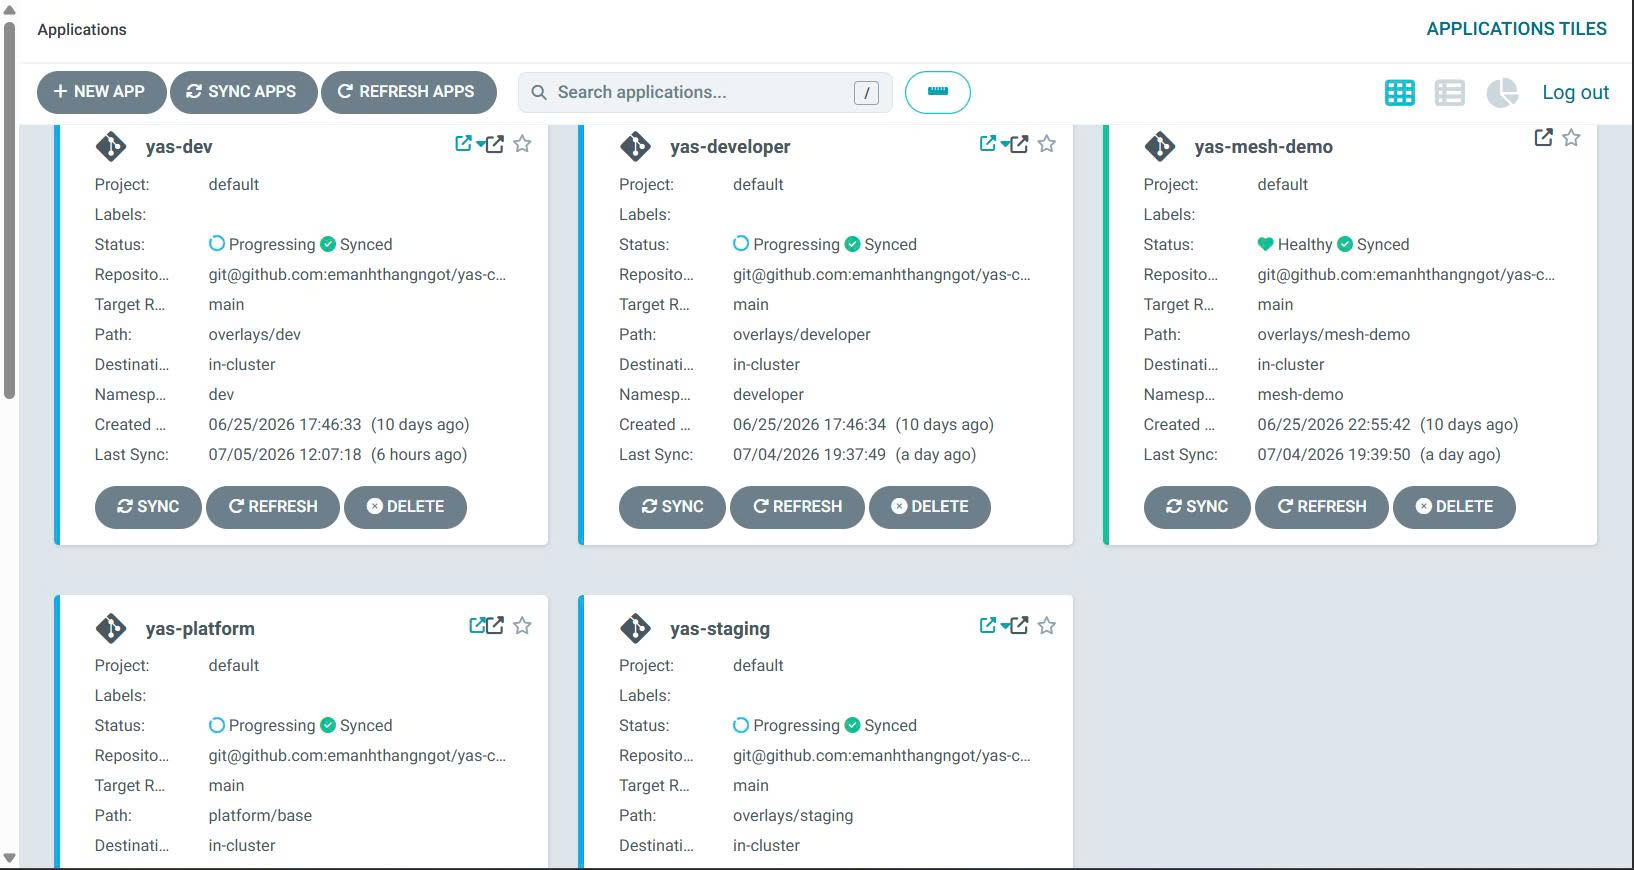
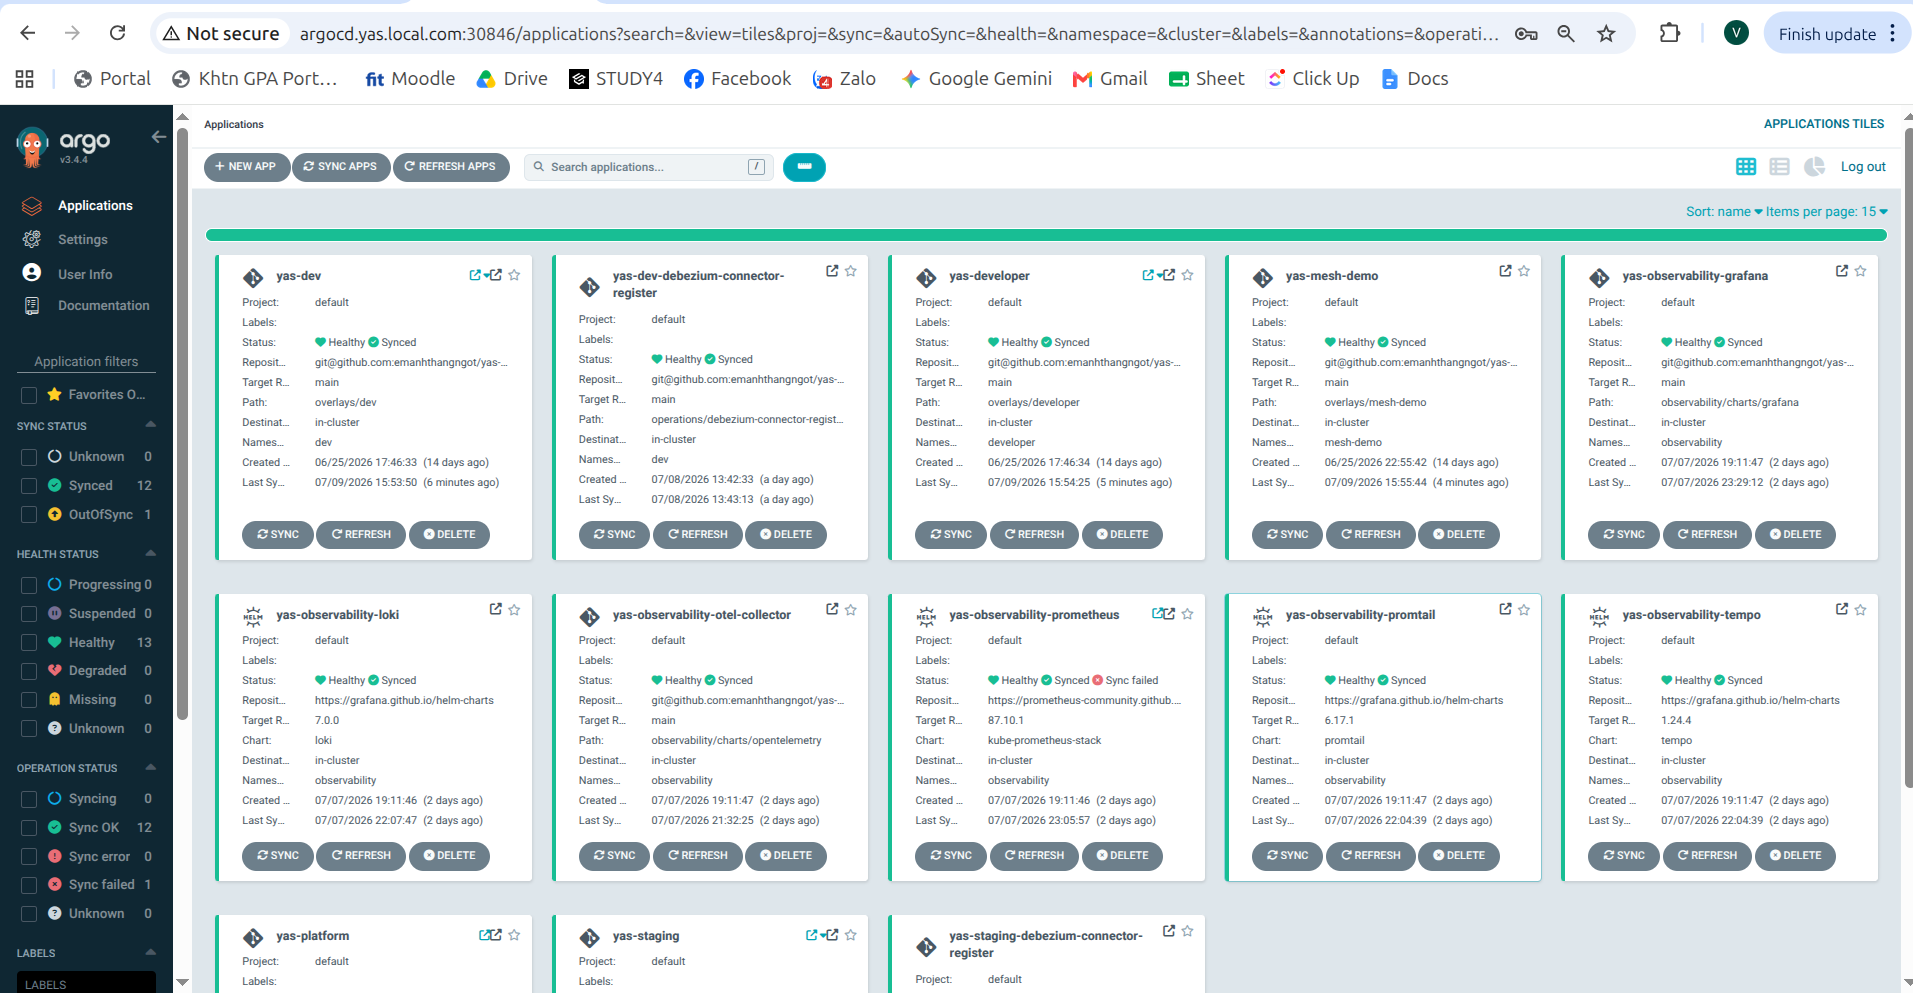
docs(report): update lab2 evidence and cover

diff --git a/latex-report/content/title.tex b/latex-report/content/title.tex
@@ -1,29 +1,35 @@
+% ==================== TRANG BÌA ====================
 \begin{titlepage}
-\newcommand{\HRule}{\rule{\linewidth}{0.5mm}}
-\centering
+    \newgeometry{margin=1.5cm}
+    \begin{tikzpicture}[remember picture,overlay,inner sep=0,outer sep=0]
+         \draw[blue!70!black,line width=4pt] ([xshift=-1.5cm,yshift=-2cm]current page.north east) coordinate (A)--([xshift=1.5cm,yshift=-2cm]current page.north west) coordinate(B)--([xshift=1.5cm,yshift=2cm]current page.south west) coordinate (C)--([xshift=-1.5cm,yshift=2cm]current page.south east) coordinate(D)--cycle;
+         \draw ([yshift=0.5cm,xshift=-0.5cm]A)-- ([yshift=0.5cm,xshift=0.5cm]B)--([yshift=-0.5cm,xshift=0.5cm]B) --([yshift=-0.5cm,xshift=-0.5cm]B)--([yshift=0.5cm,xshift=-0.5cm]C)--([yshift=0.5cm,xshift=0.5cm]C)--([yshift=-0.5cm,xshift=0.5cm]C)-- ([yshift=-0.5cm,xshift=-0.5cm]D)--([yshift=0.5cm,xshift=-0.5cm]D)--([yshift=0.5cm,xshift=0.5cm]D)--([yshift=-0.5cm,xshift=0.5cm]A)--([yshift=-0.5cm,xshift=-0.5cm]A)--([yshift=0.5cm,xshift=-0.5cm]A);
+         \draw ([yshift=-0.3cm,xshift=0.3cm]A)-- ([yshift=-0.3cm,xshift=-0.3cm]B)--([yshift=0.3cm,xshift=-0.3cm]B) --([yshift=0.3cm,xshift=0.3cm]B)--([yshift=-0.3cm,xshift=0.3cm]C)--([yshift=-0.3cm,xshift=-0.3cm]C)--([yshift=0.3cm,xshift=-0.3cm]C)-- ([yshift=0.3cm,xshift=0.3cm]D)--([yshift=-0.3cm,xshift=0.3cm]D)--([yshift=-0.3cm,xshift=-0.3cm]D)--([yshift=0.3cm,xshift=-0.3cm]A)--([yshift=0.3cm,xshift=0.3cm]A)--([yshift=-0.3cm,xshift=0.3cm]A);
+    \end{tikzpicture}
 
-\textsc{\LARGE đại học quốc gia tphcm}\\[0.3cm]
-\textsc{\Large trường đại học khoa học tự nhiên}\\[0.3cm]
-\textsc{\large khoa công nghệ thông tin}\\[0.4cm]
+    \centering
+    \begin{spacing}{1.1}
+    \vspace*{1cm}
+    {\Large \textbf{TRƯỜNG ĐẠI HỌC KHOA HỌC TỰ NHIÊN - ĐHQG-HCM}}\\[0.3cm]
+    {\large \textbf{KHOA CÔNG NGHỆ THÔNG TIN}}\\[1.1cm]
 
-\includegraphics[scale=.18]{img/hcmus-logo.png}\\[0.4cm]
+    {\huge \textbf{BÁO CÁO}}\\[0.5cm]
+    \begin{minipage}{0.86\textwidth}
+        \centering
+        {\Large \textbf{\reporttitle}}\\[0.3cm]
+        {\large \textbf{Đề tài: \reportname}}
+    \end{minipage}\\[1.2cm]
 
-\HRule \\[0.3cm]
-{
-\huge{\bfseries{\reporttitle}}\\[0.3cm]
-\large{\bfseries{Đề tài: \reportname}}
-}\\[0.3cm]
-\HRule \\[0.4cm]
+    \includegraphics[width=4.5cm]{img/hcmus-logo.png}\\[1.5cm]
 
-\textbf{\large Môn học: \coursename}\\[0.5cm]
+    {\Large \textbf{MÔN: \MakeUppercase{\coursename}}}\\[0.5cm]
+    {\large \textbf{\today}}\\[1.4cm]
 
-\begin{minipage}[t]{0.8\textwidth}
-\centering \large
-\emph{Sinh viên thực hiện:}\\
-\studentname
-\end{minipage}\\[0.8cm]
-
-{\large \today}
-
-\vfill
+    \normalsize
+    \textbf{Sinh viên thực hiện:}\\[0.2cm]
+    \studentname\\[1.1cm]
+    \textbf{Niên học: 2025 - 2026}
+    \end{spacing}
+    \restoregeometry
 \end{titlepage}
+\newpage

diff --git a/latex-report/content/lab2-03-kien-truc.tex b/latex-report/content/lab2-03-kien-truc.tex
@@ -18,6 +18,22 @@ Developer push branch/tag -> Jenkins app repo pipeline
 
 \subsection{Hạ Tầng Triển Khai}
 
+Hạ tầng thực tế của nhóm tách rõ CI và CD/runtime. Jenkins Controller chạy trên
+AWS EC2 tại địa chỉ \texttt{3.27.92.213}; các bước CI nặng trong Jenkinsfile
+chạy trên ba laptop agent \texttt{Agent-Tri}, \texttt{Agent-QVinh},
+\texttt{Agent-TVinh} với label \texttt{yas-build-worker}. Máy GCP
+\texttt{gcp-ci-cd-agent} không dùng làm Jenkins build agent trong kiến trúc
+báo cáo; máy này dành cho CD/runtime, gồm K3s single-node, ArgoCD, ingress,
+service mesh và workload YAS. Cấu hình VM GCP là 40 GB RAM và 150 GB
+persistent disk.
+
+Ở lớp network, Google Cloud firewall mở các port phục vụ demo và vận hành:
+\texttt{8083} cho Jenkins UI, \texttt{6443} cho Kubernetes API server,
+\texttt{30000-32767} cho NodePort/Ingress demo, \texttt{50000} cho Jenkins
+inbound agent và \texttt{22} cho SSH quản trị. Các rule này là điều kiện để máy
+ngoài có thể truy cập Jenkins, ArgoCD/app qua NodePort và để agent kết nối về
+controller.
+
 \begin{table}[H]
 \centering
 \caption{Các thành phần hạ tầng chính}
@@ -25,11 +41,11 @@ Developer push branch/tag -> Jenkins app repo pipeline
 \hline
 \textbf{Thành phần} & \textbf{Vai trò} \\
 \hline
-Jenkins Controller & Chạy trên AWS EC2, điều phối pipeline và lưu log build. \\
+Jenkins Controller & Chạy trên AWS EC2 \texttt{3.27.92.213}, điều phối pipeline và lưu log build. \\
 \hline
-Jenkins Agents & App repo CI nặng chạy trên label \texttt{yas-build-worker}; GitOps jobs nhẹ trong CD repo chạy trên \texttt{gcp-build-agent}. \\
+Jenkins Agents & Ba laptop agent \texttt{Agent-Tri}, \texttt{Agent-QVinh}, \texttt{Agent-TVinh}; app repo Jenkinsfile dùng label \texttt{yas-build-worker} để chạy test, coverage, scan, Docker build/push và GitOps update. \\
 \hline
-GCP VM & Máy \texttt{gcp-ci-cd-agent} chạy K3s single-node, Jenkins agent, ArgoCD và workload demo. \\
+GCP VM & Máy \texttt{gcp-ci-cd-agent} chạy CD/runtime: K3s single-node, ArgoCD, ingress, mesh và workload demo; cấu hình 40 GB RAM, 150 GB persistent disk. \\
 \hline
 K3s & Kubernetes runtime cho \texttt{dev}, \texttt{staging}, \texttt{developer}, platform services và mesh. \\
 \hline
@@ -46,7 +62,7 @@ Prometheus/Grafana & Observability bổ sung: app expose metric, Prometheus scra
 
 \subsection{Runtime Policy Trên Single-Node}
 
-Do toàn bộ hệ thống chạy trên một VM duy nhất, nhóm không giữ ba môi trường full-stack
+Do toàn bộ CD/runtime chạy trên một VM duy nhất, nhóm không giữ ba môi trường full-stack
 cùng active. Baseline là:
 
 \begin{itemize}
@@ -59,7 +75,13 @@ cùng active. Baseline là:
 \begin{figure}[H]
 \centering
 \reportimg{img/platform/01_gcp_vm_specs.png}
-\caption{GCP VM 32 GB RAM dùng làm Jenkins agent và K3s node}
+\caption{GCP VM dùng cho CD/runtime K3s-ArgoCD, cấu hình 40 GB RAM và 150 GB disk}
+\end{figure}
+
+\begin{figure}[H]
+\centering
+\reportimg{img/platform/03_gcp_firewall_rules.png}
+\caption{Google Cloud firewall rules mở Jenkins, K3s API, NodePort demo, Jenkins agent và SSH}
 \end{figure}
 
 \begin{figure}[H]

diff --git a/latex-report/content/lab2-09-evidence-known-issues.tex b/latex-report/content/lab2-09-evidence-known-issues.tex
@@ -9,11 +9,11 @@
 \hline
 \textbf{Nhóm} & \textbf{Evidence tiêu biểu} \\
 \hline
-Hạ tầng & \path{01_gcp_vm_specs.png}, \path{02_gcp_vm_ip_addr.png}, tool gate và PVC/database output trong \path{.agents/evidence/README.md}. \\
+Hạ tầng & \path{01_gcp_vm_specs.png}, \path{02_gcp_vm_ip_addr.png}, \path{03_gcp_firewall_rules.png}, tool gate và PVC/database output trong \path{.agents/evidence/README.md}. \\
 \hline
 ArgoCD/GitOps & \path{06_argocd_apps_overview.png}, \path{07_validate_gitops_passed.txt}, \path{11_gitops_structure_review.txt}. \\
 \hline
-Staging release & \path{21_jenkins_v010_gate_blocked.txt}, \path{21b_jenkins_v011_buildx_missing.txt}, \path{21c_jenkins_v011_mixed_tag_promote_fail.txt}, \path{21d_jenkins_v012_release_success.txt}. \\
+Staging release & \path{21_jenkins_v010_gate_blocked.txt}, \path{21b_jenkins_v011_buildx_missing.txt}, \path{21c_jenkins_v011_mixed_tag_promote_fail.txt}, \path{21e_jenkins_v013_release_success.txt}. \\
 \hline
 Developer preview & \path{28_developer_build_console.txt}, \path{29_preview_commit.txt}, \path{31_developer_up_staging_down.txt}, \path{32_developer_reachable.png}, \path{33_teardown_console.txt}. \\
 \hline
@@ -36,9 +36,19 @@ file evidence bên ngoài:
 \hline
 \textbf{Ảnh trong report} & \textbf{Nguồn gốc} & \textbf{Ý nghĩa} \\
 \hline
-\path{img/platform/01_gcp_vm_specs.png} & \path{evidence/01_gcp_vm_specs.png} & VM 32GB RAM dùng làm Jenkins agent và K3s node. \\
+\path{img/platform/01_gcp_vm_specs.png} & \path{evidence/01_gcp_vm_specs.png} & VM GCP dùng cho CD/runtime K3s-ArgoCD, 40GB RAM và 150GB disk. \\
 \hline
 \path{img/platform/02_gcp_vm_ip_addr.png} & \path{evidence/02_gcp_vm_ip_addr.png} & External IP dùng cho NodePort demo. \\
+\hline
+\path{img/platform/03_gcp_firewall_rules.png} & Screenshot Google Cloud & Firewall rules mở Jenkins, K3s API, NodePort, Jenkins agent và SSH. \\
+\hline
+\path{img/jenkins/app_repo_pipeline_overview.png} & Screenshot Jenkins UI & Jenkins job overview cho app repo pipeline. \\
+\hline
+\path{img/jenkins/main_build_success.png} & Screenshot Jenkins UI & Main build chạy thành công qua CI/CD stages. \\
+\hline
+\path{img/jenkins/release_v013_success.png} & Screenshot Jenkins UI & Release tag \texttt{v0.1.3} chạy thành công. \\
+\hline
+\path{img/dockerhub/dev_commit_sha_tags.png} & Screenshot Docker Hub & Docker image có tag theo commit SHA. \\
 \hline
 \path{img/argocd/06_argocd_apps_overview.png} & \path{evidence/06_argocd_apps_overview.png} & ArgoCD apps overview. \\
 \hline
@@ -60,11 +70,11 @@ file evidence bên ngoài:
 \hline
 \textbf{Ưu tiên} & \textbf{Ảnh cần chụp} & \textbf{Lý do} \\
 \hline
-P0 & Jenkins main build success và release \texttt{v0.1.2}. & Chứng minh pipeline chạy thật thay vì chỉ có log text. \\
+P0 & Jenkins release \texttt{v0.1.3}. & Đã có ảnh Jenkins tag pipeline chạy thành công. \\
 \hline
 P0 & ArgoCD detail cho \texttt{yas-dev}, \texttt{yas-staging}, \texttt{yas-developer}. & Chứng minh sync policy và health từng môi trường. \\
 \hline
-P0 & Docker Hub tags cho commit SHA và release tag. & Chứng minh branch/main/release image tagging đúng đề bài. \\
+P0 & Docker Hub release tag. & Commit SHA tag đã có ảnh; còn cần release tag nếu muốn chứng minh đủ branch/main/release image tagging. \\
 \hline
 P1 & Kiali topology, mTLS \texttt{2/2}, allow/deny curl. & Củng cố phần nâng cao service mesh. \\
 \hline
@@ -113,7 +123,7 @@ kubectl patch deploy ingress-nginx-controller -n ingress-nginx --type=json -p '[
 
 \begin{itemize}
     \item Snyk tạm tắt trong Jenkinsfile hiện tại: báo cáo chỉ ghi Gitleaks, test, coverage và SonarQube đang nằm trong path chính; Snyk là gate kế thừa cần bật lại sau khi CD ổn định.
-    \item Payment staging Liquibase checksum: release \texttt{v0.1.2} đã promote/deploy đúng image, nhưng service payment có lỗi migration checksum khi restart trên DB bền. Đây là vấn đề runtime/application migration, không phải lỗi GitOps release flow.
+    \item Payment staging Liquibase checksum: release \texttt{v0.1.3} đã promote/deploy đúng image, nhưng service payment có lỗi migration checksum khi restart trên DB bền. Đây là vấn đề runtime/application migration, không phải lỗi GitOps release flow.
     \item Plaintext lab secrets: CD repo còn placeholder Kubernetes Secret dạng lab value; cần ghi đây là lab-only và production nên chuyển sang SealedSecrets/External Secrets.
     \item Observability runtime: app instrumentation và ServiceMonitor contract đã có, nhưng nếu chưa chụp Prometheus/Grafana trên K3s thì không đánh dấu runtime verified.
     \item Kiali topology screenshot: mesh policy evidence đã có; ảnh topology cuối cùng cần bổ sung nếu chưa nằm trong report.

diff --git a/latex-report/content/lab2-06-jenkins-flows.tex b/latex-report/content/lab2-06-jenkins-flows.tex
@@ -23,13 +23,13 @@ rõ ràng và tránh tình trạng Kubernetes không rollout vì manifest không
 \begin{figure}[H]
 \centering
 \reportimg{img/jenkins/main_build_success.png}
-\caption{Scaffold ảnh Jenkins main build chạy qua CI gates và Docker push}
+\caption{Jenkins main build chạy qua CI gates, Docker push và GitOps update}
 \end{figure}
 
 \begin{figure}[H]
 \centering
 \reportimg{img/dockerhub/dev_commit_sha_tags.png}
-\caption{Scaffold ảnh Docker Hub hiển thị image tag theo commit SHA cho dev}
+\caption{Docker Hub hiển thị image tag theo commit SHA cho dev}
 \end{figure}
 
 \subsection{Staging Release}
@@ -54,8 +54,8 @@ promote-only:
 
 \begin{figure}[H]
 \centering
-\reportimg{img/jenkins/release_v012_success.png}
-\caption{Scaffold ảnh Jenkins release tag \texttt{v0.1.2} promote thành công}
+\reportimg{img/jenkins/release_v013_success.png}
+\caption{Jenkins release tag \texttt{v0.1.3} promote thành công}
 \end{figure}
 
 \begin{figure}[H]
@@ -77,7 +77,7 @@ promote-only:
 \hline
 \texttt{v0.1.1} lần 2 & Fail do mixed dev tags. & Không thể giả định mọi service trong dev cùng một SHA. \\
 \hline
-\texttt{v0.1.2} & Thành công. & Promote theo tag nguồn từng service đọc từ dev overlay; release tag là promote-only. \\
+\texttt{v0.1.3} & Thành công. & Promote theo tag nguồn từng service đọc từ dev overlay; release tag là promote-only. \\
 \hline
 \end{tabular}
 \end{table}
@@ -130,7 +130,7 @@ Job \texttt{teardown\_developer} chạy từ CD repo, yêu cầu confirm
 \subsection{Bằng Chứng Demo 3 Luồng}
 
 Evidence tổng hợp cho ba luồng nằm trong \path{evidence/35_cd_demo_summary.md}:
-\texttt{dev} auto deploy, \texttt{staging} release \texttt{v0.1.2}, và
+\texttt{dev} auto deploy, \texttt{staging} release \texttt{v0.1.3}, và
 \texttt{developer\_build}/teardown. Các log lỗi trước đó cũng được giữ lại để giải
 thích quá trình hardening release flow: \texttt{v0.1.0} bị gate chặn, \texttt{v0.1.1}
-lỗi buildx/mixed tag, \texttt{v0.1.2} thành công sau khi sửa promote source.
+lỗi buildx/mixed tag, \texttt{v0.1.3} thành công sau khi sửa promote source.

diff --git a/evidence/35_cd_demo_summary.md b/evidence/35_cd_demo_summary.md
@@ -12,7 +12,7 @@ Cả 3 luồng CD theo yêu cầu đề bài đã chạy thật, có log/commit 
   - `v0.1.0` → FAIL: gate GitOps chặn do tag đóng nhầm commit cũ (services.yaml 20 vs overlay 15). Evidence: `21_jenkins_v010_gate_blocked.txt`
   - `v0.1.1` (lần 1) → FAIL: agent thiếu `docker buildx`. Evidence: `21b_jenkins_v011_buildx_missing.txt`
   - `v0.1.1` (lần 2) → FAIL: promote đòi mọi service cùng 1 SHA nhưng dev trộn tag (13 SHA + 2 UI ở `main`). Evidence: `21c_jenkins_v011_mixed_tag_promote_fail.txt`
-  - `v0.1.2` → **SUCCESS**: sau 2 cải tiến Jenkinsfile (promote theo tag dev-overlay từng service; skip test/scan trên tag build). 15/15 service promote trong ~2 phút, staging chạy `:v0.1.2`. Evidence: `21d_jenkins_v012_release_success.txt`, `24_argocd_outofsync_diff.png`
+  - `v0.1.3` → **SUCCESS**: sau 2 cải tiến Jenkinsfile (promote theo tag dev-overlay từng service; skip test/scan trên tag build). Jenkins tag pipeline chạy thành công và staging nhận release tag `:v0.1.3`. Evidence: `21e_jenkins_v013_release_success.txt`, `latex-report/img/jenkins/release_v013_success.png`, `24_argocd_outofsync_diff.png`
 - 2 cải tiến đã merge (PR trên `tzin1401/yas`):
   1. `promote release images from dev overlay tags, not tagged-commit SHA` — sửa gốc lỗi mixed-tag.
   2. `skip test/scan gates on release-tag builds (promote-only)` — release chỉ verify+promote+GitOps, gate CI được thừa kế từ build main đã publish image nguồn (provenance).
@@ -24,4 +24,4 @@ Cả 3 luồng CD theo yêu cầu đề bài đã chạy thật, có log/commit 
 - Xác nhận runtime: `kubectl top nodes` 49% CPU / 51% RAM khi dev+developer song song — chứng minh single-node đủ tải nhờ active_limit=2.
 
 ## Known issue (không thuộc luồng CD)
-- Service `payment` crash khi staging restart: `liquibase ValidationFailedException` (checksum mismatch trong `staging_payment` DB do image cũ migrate trước đó). Đây là lỗi runtime/app-level, KHÔNG ảnh hưởng luồng CD — image `v0.1.2` vẫn pull & deploy đúng; storefront vẫn truy cập được. Production reality check: cần migration idempotent / cơ chế clear-checksums khi đổi image version trên DB bền.
+- Service `payment` crash khi staging restart: `liquibase ValidationFailedException` (checksum mismatch trong `staging_payment` DB do image cũ migrate trước đó). Đây là lỗi runtime/app-level, KHÔNG ảnh hưởng luồng CD — image `v0.1.3` vẫn pull & deploy đúng; storefront vẫn truy cập được. Production reality check: cần migration idempotent / cơ chế clear-checksums khi đổi image version trên DB bền.